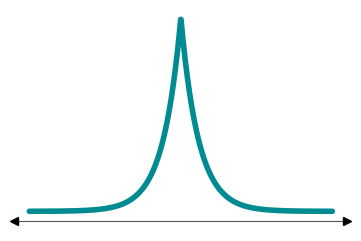
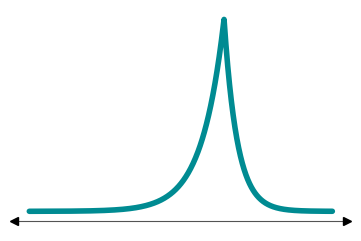
change init var

Changed region(s): [[0.1828, 0.0581, 0.8532, 0.9004]]

diff --git a/preliz/internal/distribution_helper.py b/preliz/internal/distribution_helper.py
@@ -101,7 +101,7 @@ def num_kurtosis(dist):
 
 
 init_vals = {
-    "AsymmetricLaplace": {"kappa": 1.0, "mu": 0.0, "b": 1.0},
+    "AsymmetricLaplace": {"kappa": 1.3, "mu": 0.0, "b": 1.0},
     "Beta": {"alpha": 2, "beta": 2},
     "BetaScaled": {"alpha": 2, "beta": 2, "lower": -1.0, "upper": 2.0},
     "Cauchy": {"alpha": 0.0, "beta": 1.0},
